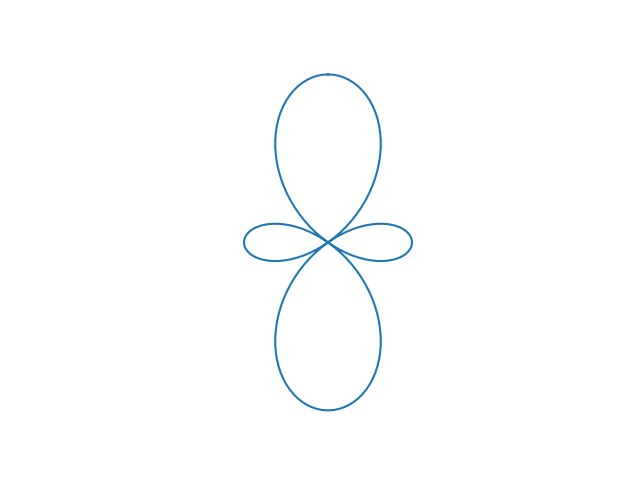
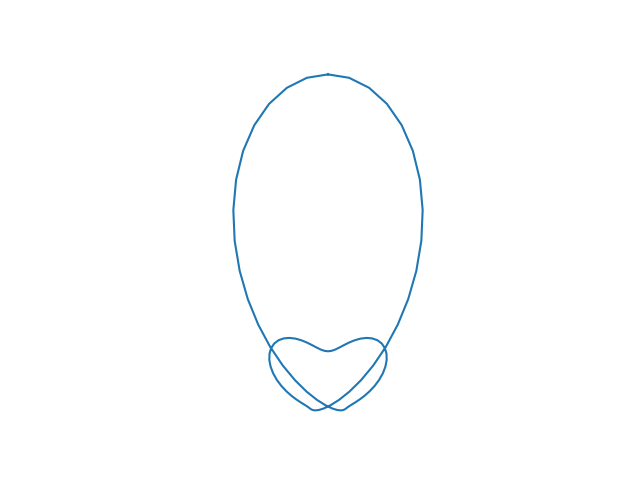
third commit

diff --git a/A.py b/A.py
@@ -1,0 +1,56 @@
+import numpy as np
+
+def jacobi(A,b,n):
+
+	xg = np.ones(len(b));
+	xs = np.zeros(len(b));
+
+	N = n;
+	n = 0;
+
+	while n < N:
+
+		for i in range(0,len(b)):
+
+			xs[i] = b[i];
+
+			for j in range(0,len(b)):
+
+				if i == j:
+					continue;
+
+				xs[i] = (xs[i] - xg[j]*A[i][j])/A[i][i];
+
+		n+=1;
+		xg = xs;
+
+	return xs
+
+
+
+def rrefsolve(A,b):
+
+	if A.shape[0] != A.shape[1] or A.shape[0] != b.shape[0]:
+		print ("Error: A must be an (n,n) numpy array and b a (n,) numpy array")
+		return
+	b = np.array([b]);
+	N = A.shape[0];
+	n = 0;
+	A = np.concatenate((A,b.T),axis=1);
+
+	while n<N:
+		den = A[n][n];
+		if den == 0:
+			n+=1;
+			continue;
+		for i in range(0,N):
+			if i==n:
+				continue;
+			num = A[i][n];
+			for j in range(0,N+1):
+				A[i][j] = A[n][j]*num/den - A[i][j];
+		n+=1
+	S = np.zeros(N,dtype=np.double)
+	for n in range (0,N):
+		S[n] = A[n][N]/A[n][n];
+	return S;

diff --git a/forward.py b/forward.py
@@ -7,25 +7,25 @@ from matplotlib.figure import Figure
 
 R_0 = 0;
 m = 0;
-theta = np.zeros(100);
-phi = np.linspace(0,np.pi,100);
+theta = np.zeros(50);
+phi = np.linspace(0,np.pi,50);
 
-A = lambda n : 1/n/n;
+A = lambda n : 1/n;
 Y = lambda n,m,theta,phi : sp.sph_harm(m,n,theta,phi);
 R_n = lambda n,theta,phi : A(n) * Y(n,m,theta,phi);
 
 
 R = R_0;
 
-for n in range(2,3):
+for n in range(1,5):
 	R = R + R_n(n,theta,phi);
 
 px = R*np.sin(phi);
 py = R*np.cos(phi);
 nx = np.flip(-px);
 ny = np.flip(py);
-x = np.concatenate((px,nx));
-y = np.concatenate((py,ny));
+x = np.real(np.concatenate((px,nx)));
+y = np.real(np.concatenate((py,ny)));
 
 fig = Figure();
 ax = fig.add_subplot();
@@ -33,5 +33,3 @@ ax.set_axis_off();
 ax.set_aspect('equal');
 ax.plot(x,y);
 fig.savefig("test.png");
-
-

diff --git a/backward.py b/backward.py
@@ -1,0 +1,32 @@
+import sys
+import numpy as np
+import scipy.special as sp
+from A import rrefsolve
+
+from PIL import Image, ImageDraw
+from matplotlib.figure import Figure
+import forward as f
+
+N = 6;
+B = 3;
+py = np.zeros(N);
+px = np.zeros(N);
+for n in range(0,N):
+	py[n] = np.real(f.py[B+n]);
+	px[n] = np.real(f.px[B+n]);
+
+theta = np.zeros(N);
+phi = np.arctan(px/py)
+Y = lambda n,m,theta,phi : sp.sph_harm(m,n,theta,phi);
+R = np.array(py/np.cos(phi));
+RR = R-f.R_0;
+
+Y_M = np.zeros((N,N),dtype=np.longdouble);
+#Y_M = np.zeros((N,N));
+for m in range(0,N):
+	for n in range(0,N):
+		Y_M[m][n] = np.real(Y(n,f.m,theta[m],phi[m]));
+
+SS = rrefsolve(Y_M,RR);
+#SS = np.linalg.solve(Y_M,RR)
+print (SS);
